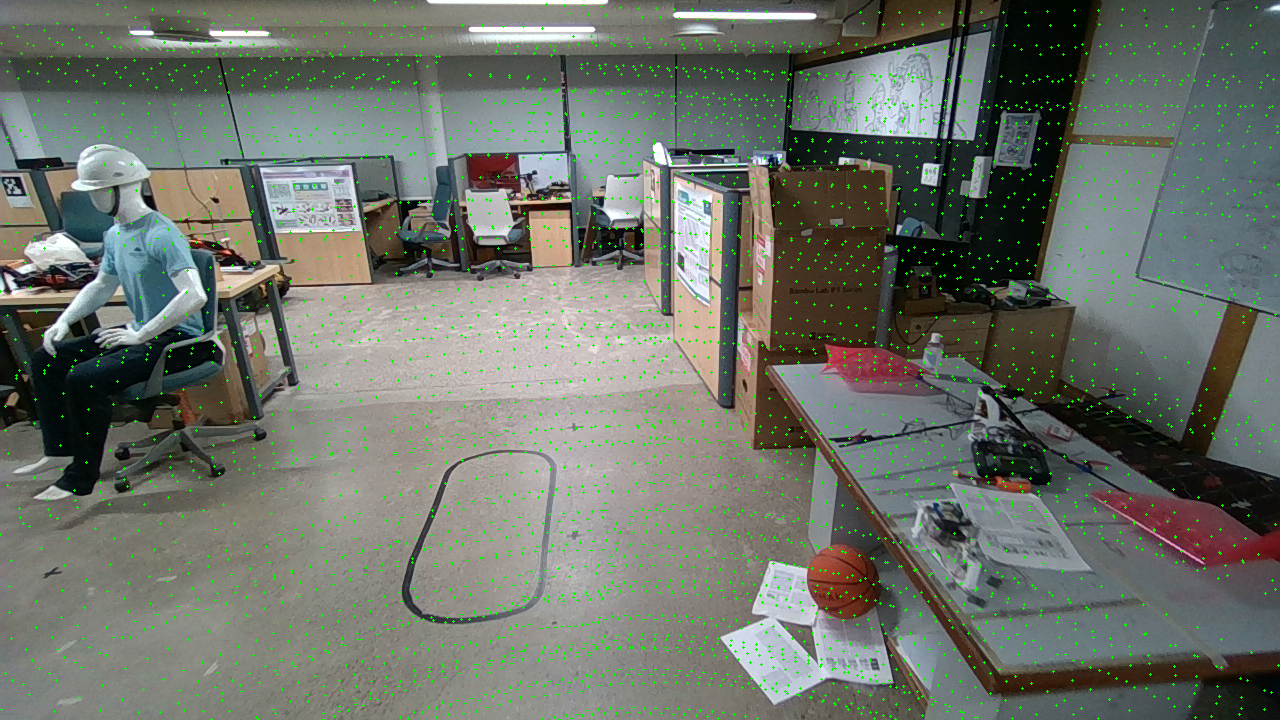
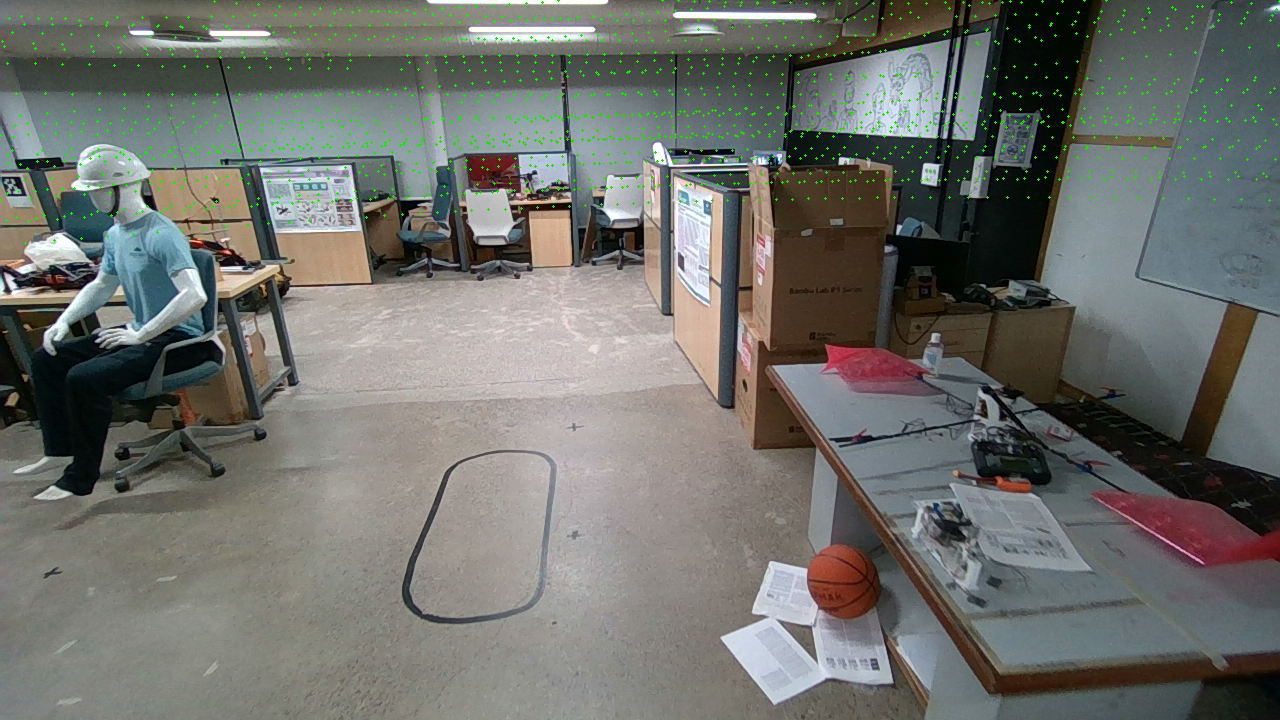
Debugging ...

diff --git a/tmp_operation_stp2.py b/tmp_operation_stp2.py
@@ -1,6 +1,7 @@
 import numpy as np
 import open3d as o3d
 import cv2
+from transformations import quaternion_matrix, translation_matrix, concatenate_matrices
 
 
 
@@ -51,18 +52,58 @@ transition_matrix[-1, -1] += 1
 
 tmp_D = np.diag([1, -1, -1, 1])
 
-transition_matrix_flipped = tmp_D @ transition_matrix
+# transition_matrix_flipped = tmp_D @ transition_matrix
 
 # import ipdb; ipdb.set_trace()
 
-rotation_matrix_fin = transition_matrix_flipped[:-1, :-1]
-translation_vector_fin = transition_matrix[:3, 3:]
+# rotation_matrix_fin = transition_matrix_flipped[:-1, :-1]
+# translation_vector_fin = transition_matrix_flipped[:3, 3:]
+
+
+############################# old ################################################
+
+# rotation_matrix_fin = rotation_matrix
+# translation_vector_fin = translation_vector
+
+
+############################### Library to compute the transformations ##############################
+
+tvec = np.array([p[0], p[1], p[2]])
+quat = np.array([p[6], p[3], p[4], p[5]])
+
+T_trans = translation_matrix(tvec)
+T_rot = quaternion_matrix(quat)
+
+T_fin = concatenate_matrices(T_trans, T_rot)
+
+
+
+# tmp_D = np.diag([1, -1, -1, 1])
+
+# T_fin = tmp_D @ T_fin @ tmp_D
+
+
+
+rotation_matrix_fin = T_fin[:-1, :-1]
+
+############ This is to compute the inverse of the square matrix ################
+rotation_matrix_fin = np.linalg.inv(rotation_matrix_fin)    
+"""
+If the above is not done, the points get accumulated to the left of the image only...
+Simply cuz the lidar points are not rotated (emperically - after rotation there are 
+more points seen on the image as horizontal dim is greater than vertical dim (W > H))
+"""
+
+translation_vector_fin = T_fin[:3, 3:]
+
+
+#####################################################################################################
 
 
 pcd = o3d.io.read_point_cloud("/home/jarvis/a1/assets/q1_data/pcd/1776460517.915522575.pcd")
 points = np.asarray(pcd.points)
 
-print(type(pcd.points)) #<class 'open3d.cpu.pybind.utility.Vector3dVector'>
+# print(type(pcd.points)) #<class 'open3d.cpu.pybind.utility.Vector3dVector'>
 
 
 # camera intrinsics
@@ -73,17 +114,40 @@ K_intrinsics = np.array([[6.442133178710937500e+02, 0.000000000000000000e+00, 6.
 # o3d.utility.Vector3dVector
 
 
-points_in_camera_frame = (rotation_matrix_fin @ points.T + translation_vector_fin)
+points_in_camera_frame = (rotation_matrix_fin @ points.T)
 
 
 new_points = np.ascontiguousarray(points_in_camera_frame.T, dtype=np.float64)
-mask = new_points[:, 2] > 0
+
+"""
+This is a single channel or one dim mask 
+(bool values - yes or no based on the condition) 
+Later this mask is applied to all 3 dimensions independently 
+to filter across all 3 dim (x, y, z)
+
+Analogy - consider the binary mask for images one channel mask is overlayed
+for all 3 channels and we get rgb image with colors only to the mask segments
+and black color pixels (Zero valued) in rest all places.
+
+So 3 channels here is 3 dimensions and nothing much..
+"""
+mask = new_points[:, 2] > 0     
+
+
 filtered_new_points = new_points[mask]
+"""
+Only positive Z dim data is considered and rest all are thrown away..
+"""
 
 
+
+#################### Projecting points on to the image plane ########################
 # import ipdb; ipdb.set_trace()
+# 
 uv = (K_intrinsics @ filtered_new_points.T).T
 uv = uv[:, :2] / uv[:, 2:3]
+
+###################################################################################
 
 
 image = cv2.imread("/home/jarvis/a1/assets/q1_data/rgb/1776460517.915522575.png")
@@ -92,7 +156,9 @@ h, w = image.shape[:2]
 # import ipdb; ipdb.set_trace()
 # in_bounds = (uv[:, 0] >= 0) & (uv[:, 0] < w) & (uv[:1] >= 0) & (uv[:, 0] < h)
 
-in_bounds = (uv[:,0] >= 0) & (uv[:,0] < w) & (uv[:,1] >= 0) & (uv[:,1] < h)
+# in_bounds = (uv[:,0] >= 0) & (uv[:,0] < w) & (uv[:,1] >= 0) & (uv[:,1] < h)
+# in_bounds = (uv[:,0] >= 0)  & (uv[:,1] >= 0)
+in_bounds = (uv[:,0] >= 0)  & (uv[:,1] >= 0)
 
 for (u, v), z in zip(uv[in_bounds], filtered_new_points[in_bounds][:, 2]):
     color = int(255 * min(z / 50, 1))

diff --git a/transformations_check.py b/transformations_check.py
@@ -1,0 +1,27 @@
+from transformations import quaternion_matrix, translation_matrix, concatenate_matrices
+import numpy as np
+
+p = np.array([
+        0.07093786809565478,
+        0.012665553133702897,
+        -0.08437335095076476,
+        0.4051169630628588,
+        0.4006810126971365,
+        0.5797585743574961,
+        0.5824216408768541,
+    ])
+
+
+# x, y, z = p[0], p[1], p[2]
+# qx, qy, qz, qw = p[3], p[4], p[5], p[6]
+
+
+tvec = np.array([p[0], p[1], p[2]])
+quat = np.array([p[6], p[3], p[4], p[5]])
+
+T_trans = translation_matrix(tvec)
+T_rot = quaternion_matrix(quat)
+
+T_fin = concatenate_matrices(T_trans, T_rot)
+
+import ipdb; ipdb.set_trace()
